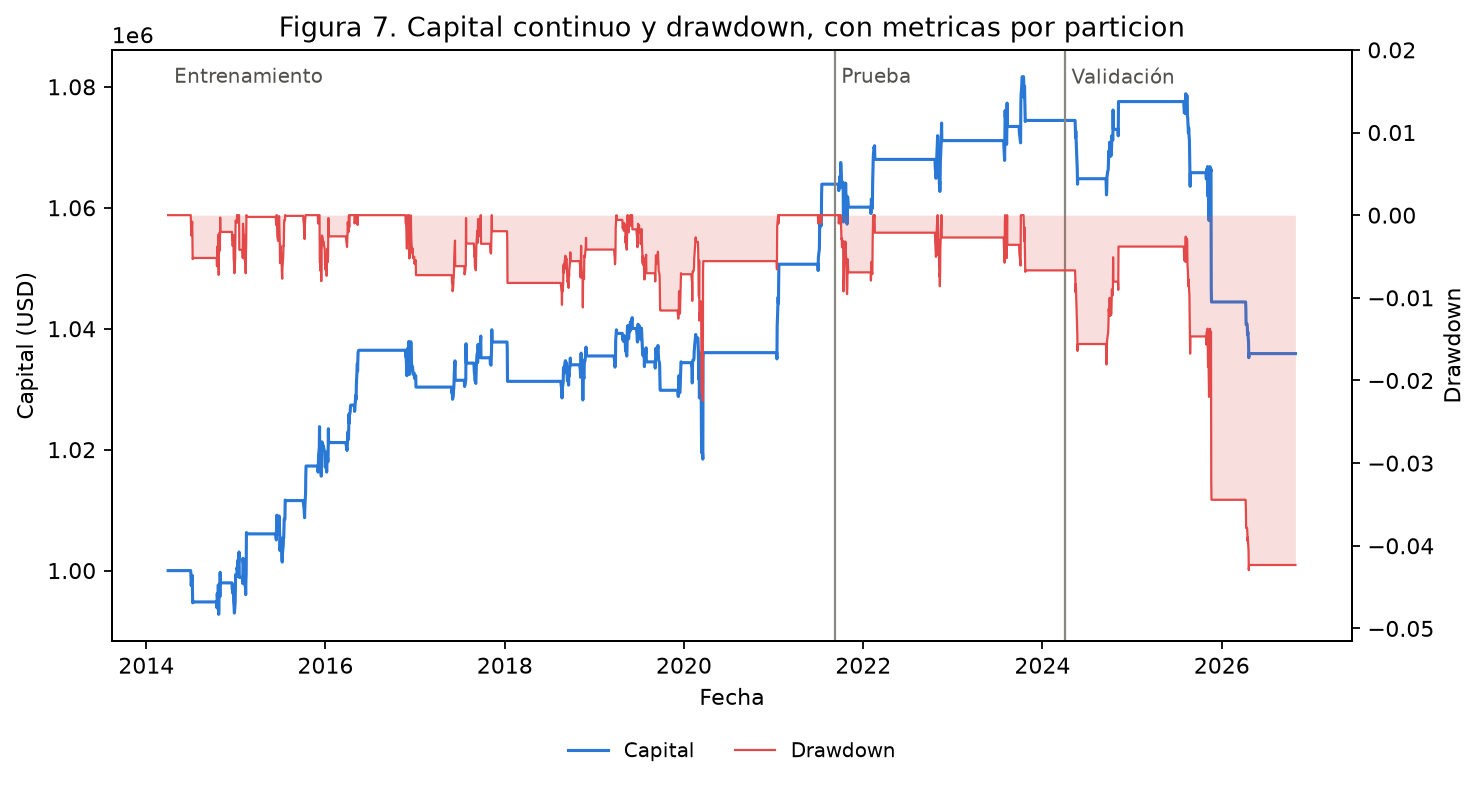
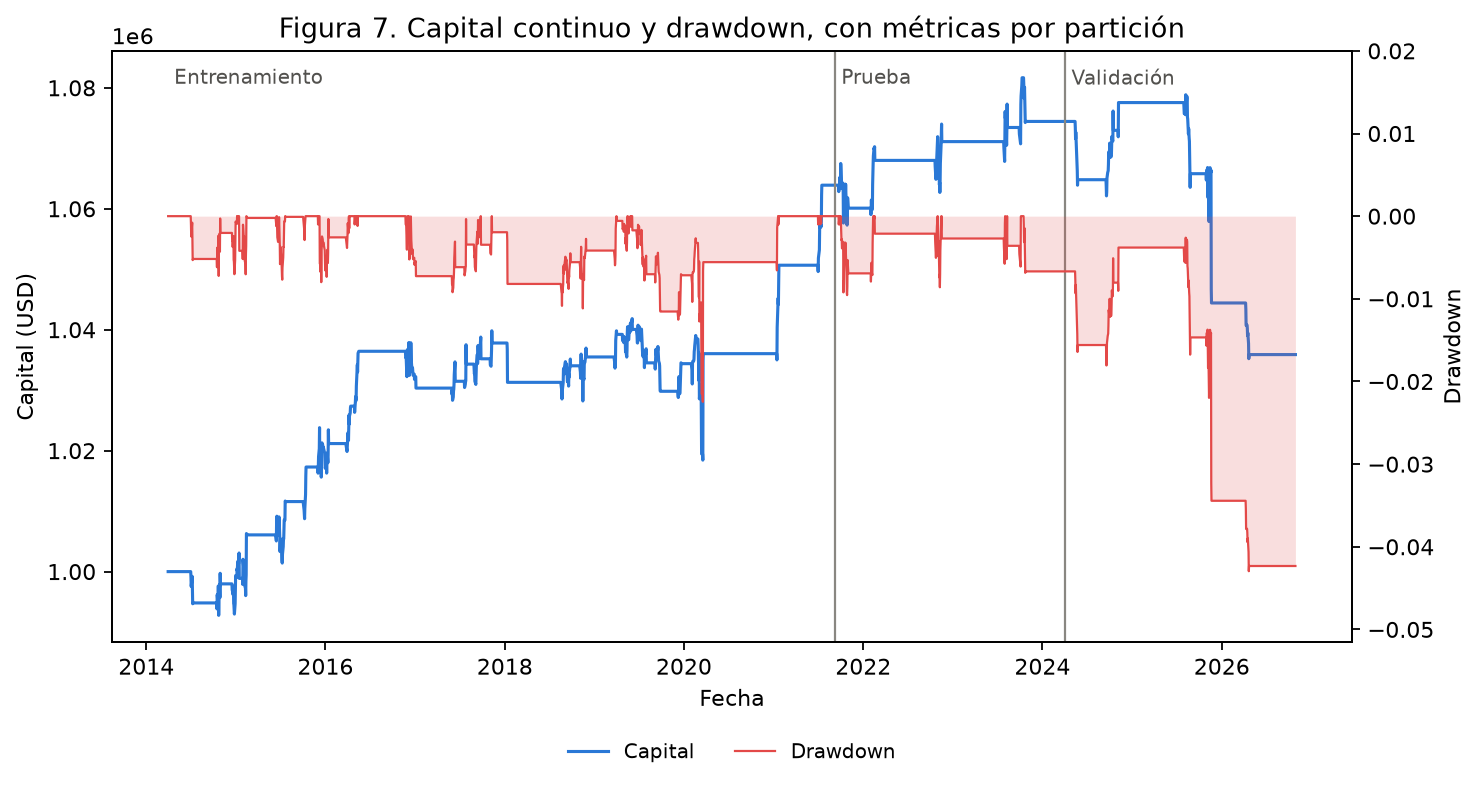
Corrige el titulo de la figura 7 para que lleve tildes

diff --git a/performance/figures.py b/performance/figures.py
@@ -74,7 +74,7 @@ def fig7_equity(equity, mode="light"):
         loc="upper center", bbox_to_anchor=(0.5, -0.14), ncol=2, fontsize=9, frameon=False,
     )
 
-    ax_equity.set_title("Figura 7. Capital continuo y drawdown, con metricas por particion")
+    ax_equity.set_title("Figura 7. Capital continuo y drawdown, con métricas por partición")
     return figure
 
 
